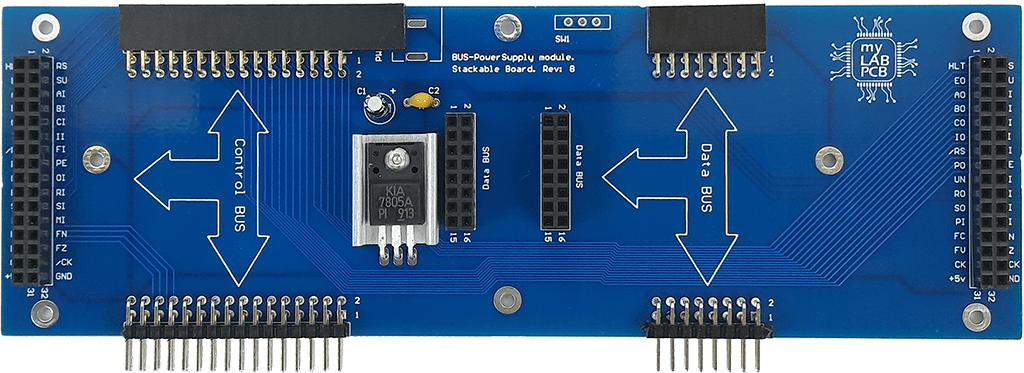
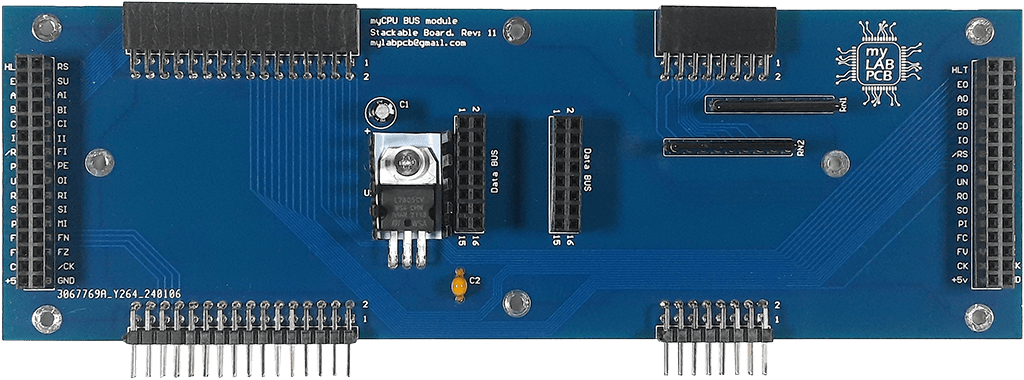
Update pictures of BUS module  and layout connector

diff --git a/pages/en/mycpu/extra_modules/bus_layout_connector.md b/pages/en/mycpu/extra_modules/bus_layout_connector.md
@@ -12,7 +12,12 @@ hero_darken: false
 
 <figure class="center">
     <img src="{{ site.baseurl }}/img/mycpu/modules/layout/layout_connector_assembled_min.png" alt="Assembled PCB view" title="Assembled PCB view" width="500px">
-    <figcaption>Assembled view of the BUS module</figcaption>
+    <figcaption>Assembled view of the Layout Connector</figcaption>
+</figure>
+
+<figure class="center">
+    <img src="{{ site.baseurl }}/img/mycpu/modules/layout/layout_terminator_assembled_min.png" alt="Assembled PCB view" title="Assembled PCB view" width="500px">
+    <figcaption>Assembled view of the Layout Terminator</figcaption>
 </figure>
 
 [Layout Connector documentation](/downloads/technical/myCPU_BUS_LayoutConnector_full.pdf){:target="_blank"}
